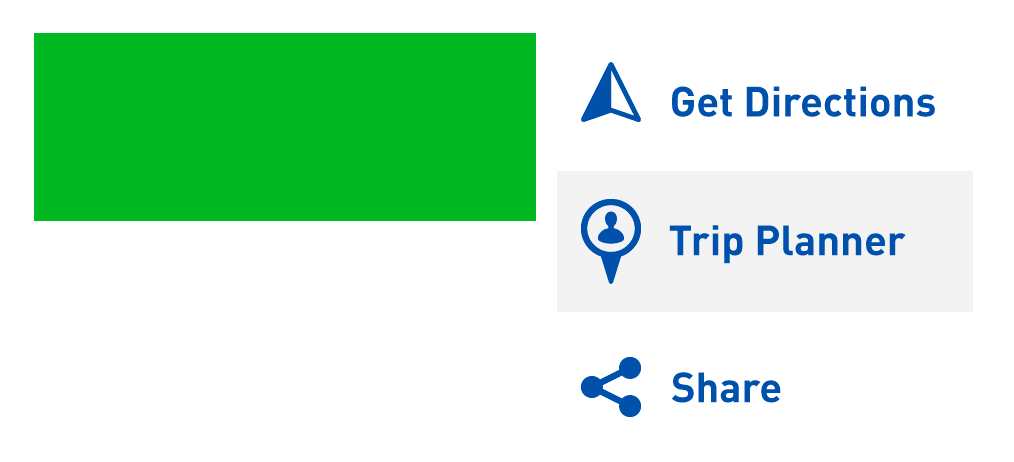
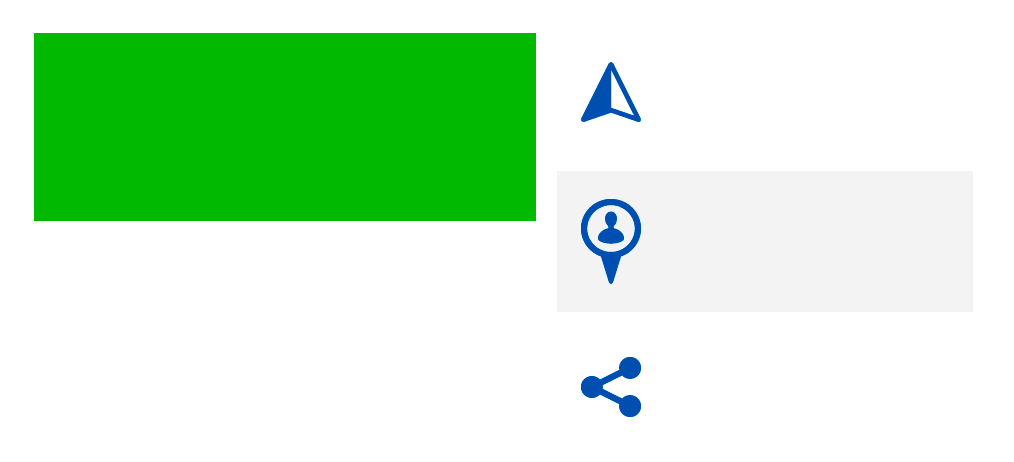
info popup change text and add resizing

diff --git a/www/js/view/panel/InfoPopup.js b/www/js/view/panel/InfoPopup.js
@@ -8,24 +8,19 @@ Ext.define('App.view.InfoPopup' ,{
         items:[
             {
                 cls:'info-popup-zoom',
-                style:'position:absolute;width:100%;height:100%;background-color:#FFF;top:0px;left:0px;',
+                style:'position:absolute;width:100%;height:100%;background-color:#FFF;top:0px;left:0px;font-size:16px;font-weight:bold',
                 html:'<img id="info-close" src="img/popup-close-button.png" >' +
-                    '<div class="info-popup-header"></div>' +
-                    '<div class="info-popup-details"></div>' +
-                    '<div class="info-popup-fuel-types">Fuel Types Offered</div>' +
-                    '<div class="info-popup-vehicle-types">Vehicle Types Accepted</div>',
-                /*
-                html:'<div style="position:absolute;width:100%;height:100%;background-image: url(img/popup-station-info.png);background-size: 300px 490px;background-position: center center;background-repeat: no-repeat;">'
-                    +'<div id="stationName" style="overflow:hidden;height:24px;position:absolute;left:50%;margin-left:-140px;top:50%;margin-top:-60px;width:280px;color:#30b457"></div>'
-                    +'<div id="stationStatus" style="position:absolute;left:50%;margin-left:-135px;top:50%;margin-top:-190px;color:#fff;font-style: italic;fony-size:30px;font-weight: normal;width:140px">Operational</div>'
-                    +'<div id="stationAddress" style="overflow:hidden;height:84px;position:absolute;left:50%;margin-left:-140px;top:50%;margin-top:-35px;width:280px;color:#67686a;font-weight:bold;"></div>'
-                    +'<div style="position: absolute;top:50%;margin-top: -195px;left: 50%;margin-left: 15px"><div id="goDirect"></div><div id="goPlanner"></div><div id="goShare"></div></div>'
-
-                    +'<div id="fuel-type-redeem-info"></div><div id="fuel-type-cng-info"></div>'
-                    +'<div id="fuel-type-lng-info"></div><div id="fuel-type-disel-info"></div>'
-                    +'<div id="vehicle-type-cars-info"></div><div id="vehicle-type-box-info"></div><div id="vehicle-type-semi-info"></div>'
-                    +'<div id="flow-rate-low-info"></div><div id="flow-rate-medium-info"></div><div id="flow-rate-hight-info"></div>'
-                    +'</div>',*/
+                    '<div class="info-popup-header"><div id="goDirect">Get Directions</div><div id="goPlanner">Add to Trip</div><div id="goShare">Share</div>' +
+                    '<div id="stationStatus" style="position:absolute;left:15px;top:15px;color:#fff;font-style: italic;fony-size:30px;font-weight: normal;width:140px">Operational</div>' +
+                    '<div id="flow-rate-low-info"></div><div id="flow-rate-medium-info"></div><div id="flow-rate-hight-info"></div></div>' +
+                    '<div class="info-popup-details">' +
+                    '<div id="stationName" style="overflow:hidden;height:24px;width:280px;color:#30b457"></div>' +
+                    '<div id="stationAddress" style="overflow:hidden;height:84px;position:absolute;left:10px;top:25%;width:320px;color:#67686a;font-weight:bold;"></div>' +
+                    '</div>' +
+                    '<div class="info-popup-fuel-types">Fuel Types Offered <div id="fuel-type-redeem-info"></div><div id="fuel-type-cng-info"></div>' +
+                    '<div id="fuel-type-lng-info"></div><div id="fuel-type-disel-info"></div></div>' +
+                    '<div class="info-popup-vehicle-types">Vehicle Types Accepted' +
+                    '<div id="vehicle-type-cars-info"></div><div id="vehicle-type-box-info"></div><div id="vehicle-type-semi-info"></div></div>',
                 listeners: {
                     tap: {
                         fn: function( e, node ) {
@@ -53,7 +48,7 @@ Ext.define('App.view.InfoPopup' ,{
     openPopup: function(model) {
         if (model==null) return;
         Ext.getCmp('infoPopup').show();
-/*
+
         this.stationAddress = model.get('StationAddress')+", "+model.get('StationCity')+", "+model.get('StationState')+", "+model.get('StationZip');
         Ext.get("stationName").dom.innerHTML = model.get('StationName');
         var adress = '<font style="font-size:15px;line-height: 20px;">'+ this.stationAddress +'</font><br>',
@@ -94,7 +89,7 @@ Ext.define('App.view.InfoPopup' ,{
         else Ext.get("flow-rate-medium-info").removeCls('select');
         if ( model.get('CNG3000HighFlowNozzle')=="Yes" ) Ext.get("flow-rate-hight-info").addCls('select');
         else Ext.get("flow-rate-hight-info").removeCls('select');
-        */
+
     },
     closePopup: function() {
         Ext.getCmp('infoPopup').hide();

diff --git a/www/css/icons.css b/www/css/icons.css
@@ -9,7 +9,7 @@
 }
 
 #fuel-type-cng-info {
-    position:absolute;top:50%;left:50%;width:60px;height:47px;margin-top: 103px;margin-left: -70px;
+    position:absolute;top:40px;left:27%;width:60px;height:47px;
     background:  url('../img/icons-fuel-type.png') no-repeat -60px 0px;
 }
 #fuel-type-cng {
@@ -21,7 +21,7 @@
 }
 
 #fuel-type-lng-info {
-    position: absolute;top:50%;left:50%;width:60px;height:47px;margin-top: 103px;margin-left: 12px;
+    position: absolute;top:40px;left:50%;width:60px;height:47px;
     background:  url('../img/icons-fuel-type.png') no-repeat 0px 0px;
 }
 #fuel-type-lng {
@@ -33,7 +33,7 @@
 }
 
 #fuel-type-disel-info {
-    position: absolute;top:50%;left:50%;width:60px;height:47px;margin-top: 105px;margin-left: 87px;display: none;
+    position: absolute;top:40px;left:75%;width:60px;height:47px;display: none;
     background:  url('../img/icons-fuel-type.png') no-repeat -120px 0px;
 }
 #fuel-type-disel {
@@ -45,7 +45,7 @@
 }
 
 #fuel-type-redeem-info {
-    position: absolute;top:50%;left:50%;width:60px;height:47px;margin-top: 105px;margin-left: -142px;
+    position: absolute;top:40px;left:10px;width:60px;height:47px;
     background:  url('../img/icons-fuel-type.png') no-repeat -180px 0px;
 }
 #fuel-type-redeem {
@@ -63,7 +63,7 @@
 }
 
 #vehicle-type-cars-info{
-    position: absolute;top:50%;left:50%;width:86px;height:47px;margin-top: 251px;margin-left: -190px;zoom: .75;
+    position: absolute;top:50px;left:10px;width:86px;height:47px;zoom: .9;
     background: url('../img/icons-vehicle-type.png') no-repeat 0px -48px;
 }
 #vehicle-type-cars{
@@ -75,7 +75,7 @@
 }
 
 #vehicle-type-box-info{
-    position: absolute;top:50%;left:50%;width:97px;height:47px;margin-top: 251px;margin-left: -100px;zoom: .75;
+    position: absolute;top:50px;left:27%;width:97px;height:47px;zoom: .9;
     background: url('../img/icons-vehicle-type.png') no-repeat -83px -48px;
 }
 #vehicle-type-box{
@@ -87,7 +87,7 @@
 }
 
 #vehicle-type-semi-info{
-    position: absolute;top:50%;left:50%;width:152px;height:47px;margin-top: 251px;margin-left: 10px;zoom: .75;
+    position: absolute;top:50px;left:55%;width:152px;height:47px;zoom: .9;
     background: url('../img/icons-vehicle-type.png') no-repeat -183px -48px;
 }
 #vehicle-type-semi{
@@ -159,7 +159,7 @@
 }
 
 #flow-rate-low-info {
-    position: absolute;width:55px;height:47px;top:50%;left:50%;margin-top: -150px;margin-left: -167px;zoom:0.8;
+    position: absolute;width:55px;height:47px;top:120px;left:18px;zoom:0.84;
     background: url('../img/icons-flow-rate.png') no-repeat 0px 0px;
 }
 #flow-rate-low {
@@ -171,7 +171,7 @@
 }
 
 #flow-rate-medium-info {
-    position: absolute;width:55px;height:47px;top:50%;left:50%;margin-top: -150px;margin-left: -107px;zoom:0.8;
+    position: absolute;width:55px;height:47px;top:120px;left: 88px;zoom:0.84;
     background: url('../img/icons-flow-rate.png') no-repeat -60px 0px;
 }
 #flow-rate-medium {
@@ -183,7 +183,7 @@
 }
 
 #flow-rate-hight-info {
-    position: absolute;width:55px;height:47px;top:50%;left:50%;margin-top: -150px;margin-left: -47px;zoom:0.8;
+    position: absolute;width:55px;height:47px;top:120px;left:158px;zoom:0.84;
     background: url('../img/icons-flow-rate.png') no-repeat -120px 0px;
 }
 #flow-rate-hight {

diff --git a/www/css/app.css b/www/css/app.css
@@ -458,21 +458,22 @@ input::-webkit-input-placeholder {
 }
 
 .info-popup-header {
-    position:absolute;width:507px;top:20px;height: 462px;left:50%;margin-left: -253px;
+    position:absolute;width:338px;top:20px;height:30%;left:50%;margin-left: -169px;
     background-image: url(../img/popup-station-info-short.png);
     background-repeat: no-repeat;
-    background-size: 507px 231px;
+    background-size: 338px 154px;
 }
 .info-popup-details {
-    position:absolute;width:507px;top:251px;height: 30%;left:50%;margin-left: -253px;
+    position:absolute;width:338px;top:35%;height: 30%;left:50%;margin-left: -169px;padding: 10px;
     border-top: 1px solid #95979b;
 }
 .info-popup-fuel-types {
-    position:absolute;width:507px;top:60%;height: 20%;left:50%;margin-left: -253px;
-    border-top: 1px solid #95979b;
+    position:absolute;width:338px;top:60%;height: 20%;left:50%;margin-left: -169px;
+    border-top: 1px solid #95979b;padding: 10px;color: #67686a;
 }
 .info-popup-vehicle-types {
-    position:absolute;width:507px;top:80%;height: 20%;left:50%;margin-left: -253px;
+    position:absolute;width:338px;top:80%;height: 20%;left:50%;margin-left: -169px;
+    padding: 10px;color: #67686a;
 }
 
 /************************************** TRIP PLANER ***************************************/
@@ -507,13 +508,19 @@ input::-webkit-input-placeholder {
 }
 
 #goDirect {
-    width:122px;height:42px;cursor: pointer;
+    position: absolute;top:12px;left:185px;
+    width:138px;height:45px;cursor: pointer;
+    color: #004aa9;font-size: 14px;padding-left: 37px;padding-top: 13px;
 }
 #goPlanner {
-    width:122px;height:42px;cursor: pointer;
+    position: absolute;top:58px;left:185px;
+    width:138px;height:45px;cursor: pointer;
+    color: #004aa9;font-size: 14px;padding-left: 37px;padding-top: 13px;
 }
 #goShare {
-    width:122px;height:42px;cursor: pointer;
+    position: absolute;top:105px;left:185px;
+    width:138px;height:45px;cursor: pointer;
+    color: #004aa9;font-size: 14px;padding-left: 37px;padding-top: 13px;
 }
 
 
